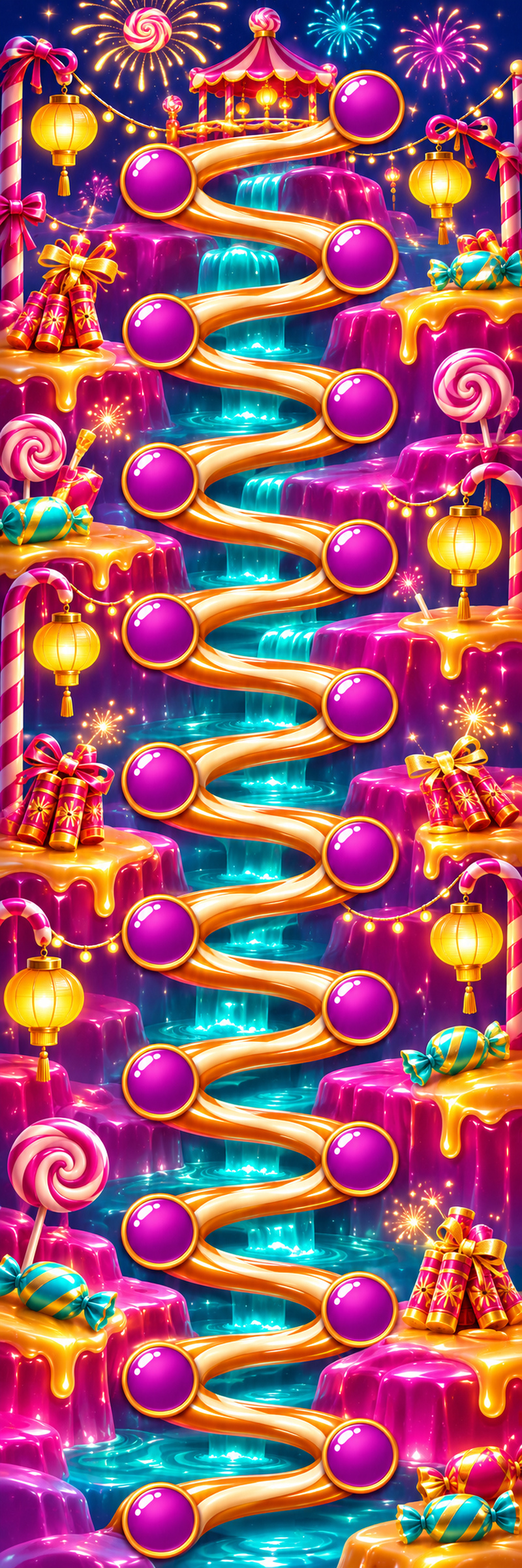
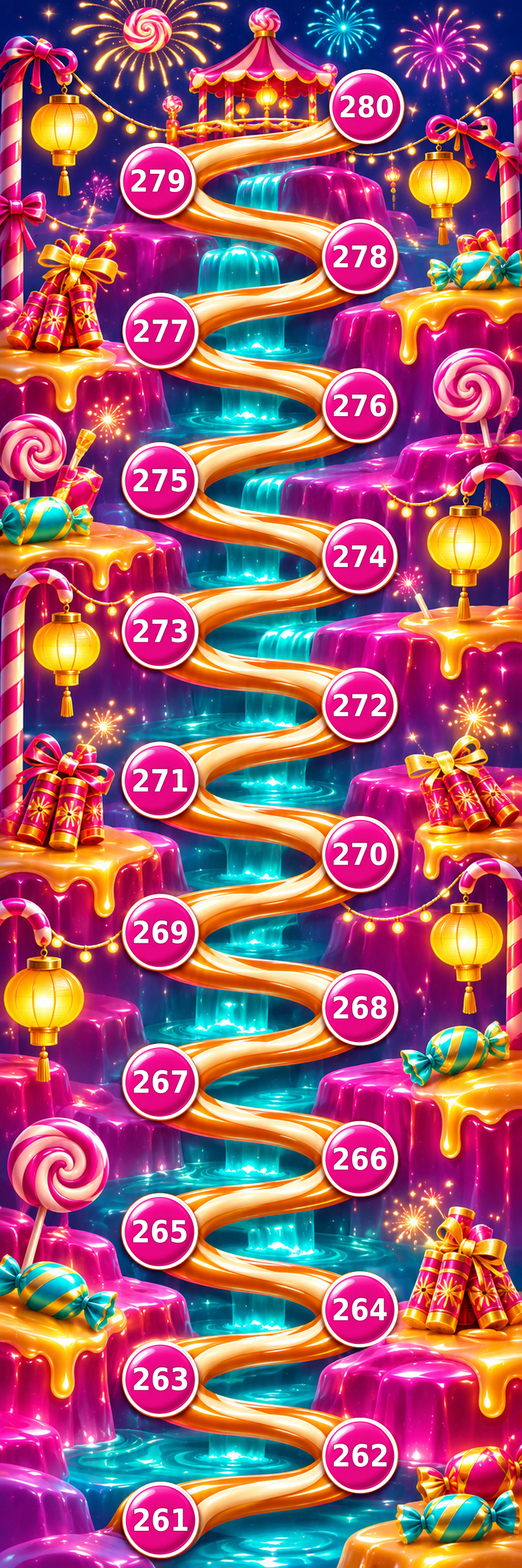
Sweet Crush : cartes 15 a 22 avec numeros de niveaux dessines (181-340)

diff --git a/play/sweetcrush/index.html b/play/sweetcrush/index.html
@@ -175,7 +175,8 @@
   .btn.icon { min-width:0 !important; padding:4px 16px !important; font-size:24px !important; }
   #sLevels { padding:0; }
   #mapScroll { position:absolute; inset:0; overflow-y:auto; overflow-x:hidden; touch-action:pan-y; -webkit-overflow-scrolling:touch; overscroll-behavior:contain; }
-  #mapInner { width:100%; max-width:720px; margin:0 auto; }
+  #mapInner { width:100%; max-width:720px; margin:0 auto; container-type:inline-size; }
+  .node .num { position:absolute; inset:0; display:flex; align-items:center; justify-content:center; color:#fff; font-weight:900; line-height:1; -webkit-text-stroke:.14em #a0124f; paint-order:stroke fill; text-shadow:0 .06em .1em rgba(0,0,0,.35); pointer-events:none; }
   #mapTop { position:absolute; top:0; left:0; right:0; padding:62px 16px 26px; display:flex; align-items:center; gap:14px; z-index:6; pointer-events:none; background:linear-gradient(rgba(70,12,120,.78), rgba(70,12,120,0)); }
   #mapTop > * { pointer-events:auto; }
   #totalStars { font-size:22px; font-weight:900; text-shadow:0 2px 4px rgba(0,0,0,.6); }
